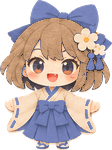
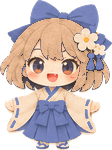
Yokai Night Market: Sayo's hair brighter
Recoloured hair value raised from 0.64-0.84 to 0.78-0.94, on her sprite and
puppet parts.

Claude-Session: https://claude.ai/code/session_01SWmRBCoZi5zDewCs1B5KjF

Changed region(s): [[0.0, 0.1067, 0.9911, 0.6133]]

diff --git a/yokai-night-market/art-source/puppets/recolor.py b/yokai-night-market/art-source/puppets/recolor.py
@@ -37,8 +37,8 @@ def recolor(path_in, path_out):
         lo, hi = np.percentile(vh, 5), np.percentile(vh, 95)
         t = np.clip((V - lo) / max(1e-3, hi - lo), 0, 1)
         out[:, :, 0] = np.where(hair, 28 / 360 * 255, out[:, :, 0])
-        out[:, :, 1] = np.where(hair, (0.46 - 0.06 * t) * 255, out[:, :, 1])
-        out[:, :, 2] = np.where(hair, (0.64 + 0.2 * t) * 255, out[:, :, 2])
+        out[:, :, 1] = np.where(hair, (0.42 - 0.06 * t) * 255, out[:, :, 1])
+        out[:, :, 2] = np.where(hair, (0.78 + 0.16 * t) * 255, out[:, :, 2])
     rgb2 = np.array(Image.fromarray(out.clip(0, 255).astype(np.uint8), 'HSV').convert('RGB'))
     a[:, :, :3] = rgb2
     Image.fromarray(a).save(path_out, optimize=True)
